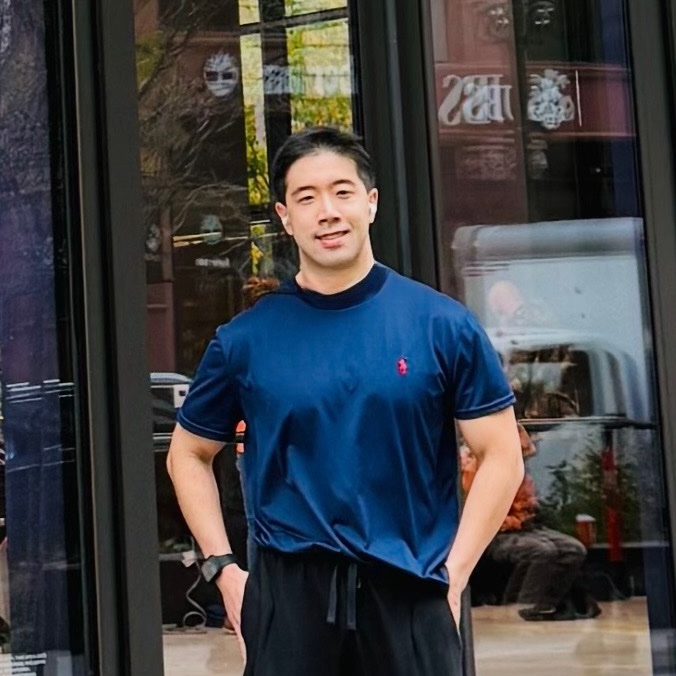
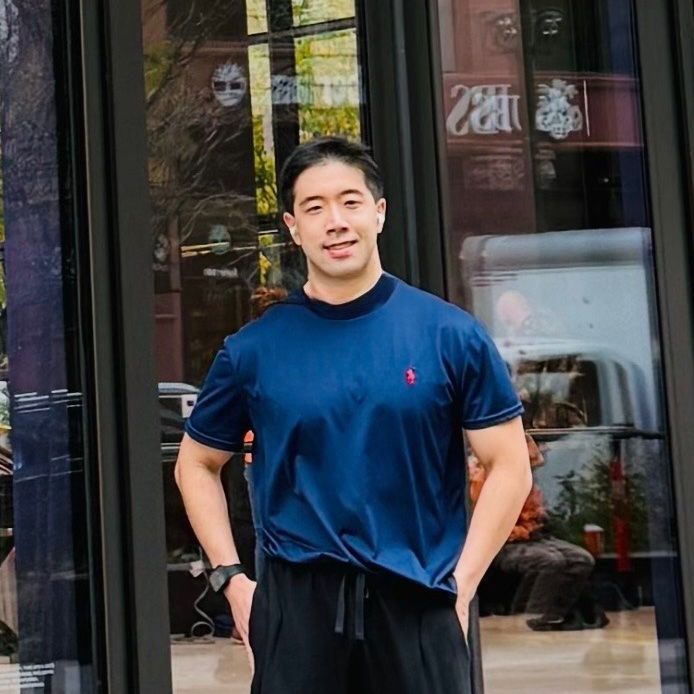
Tilt the homepage photo 7 degrees right

diff --git a/src/routes/index.tsx b/src/routes/index.tsx
@@ -54,7 +54,7 @@ function Index() {
               className="h-full w-full object-cover"
               style={{
                 objectPosition: "50% 50%",
-                transform: "rotate(5deg) scale(1.09)",
+                transform: "rotate(7deg) scale(1.12)",
                 transformOrigin: "center",
                 filter: "brightness(1.08)",
               }}
